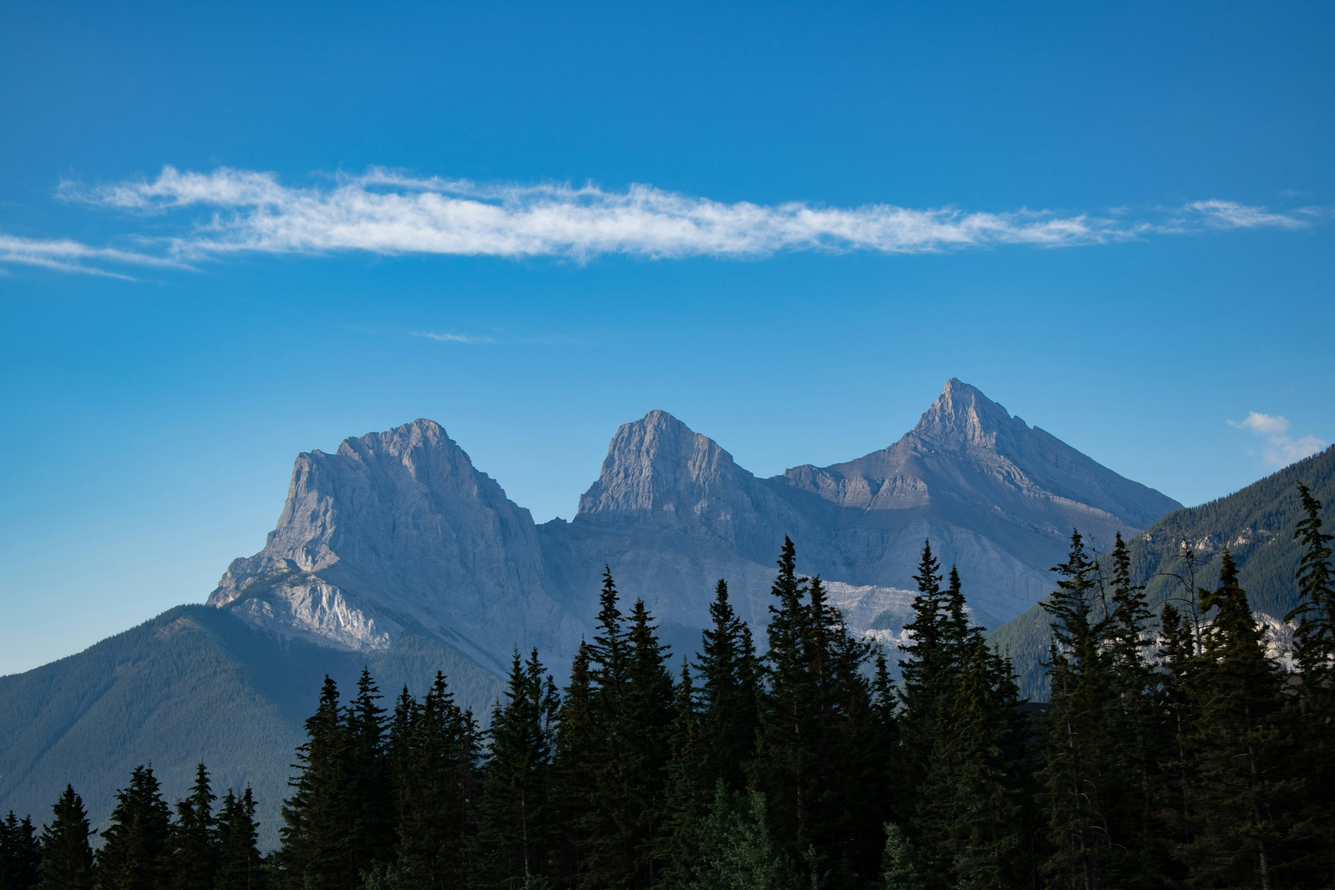
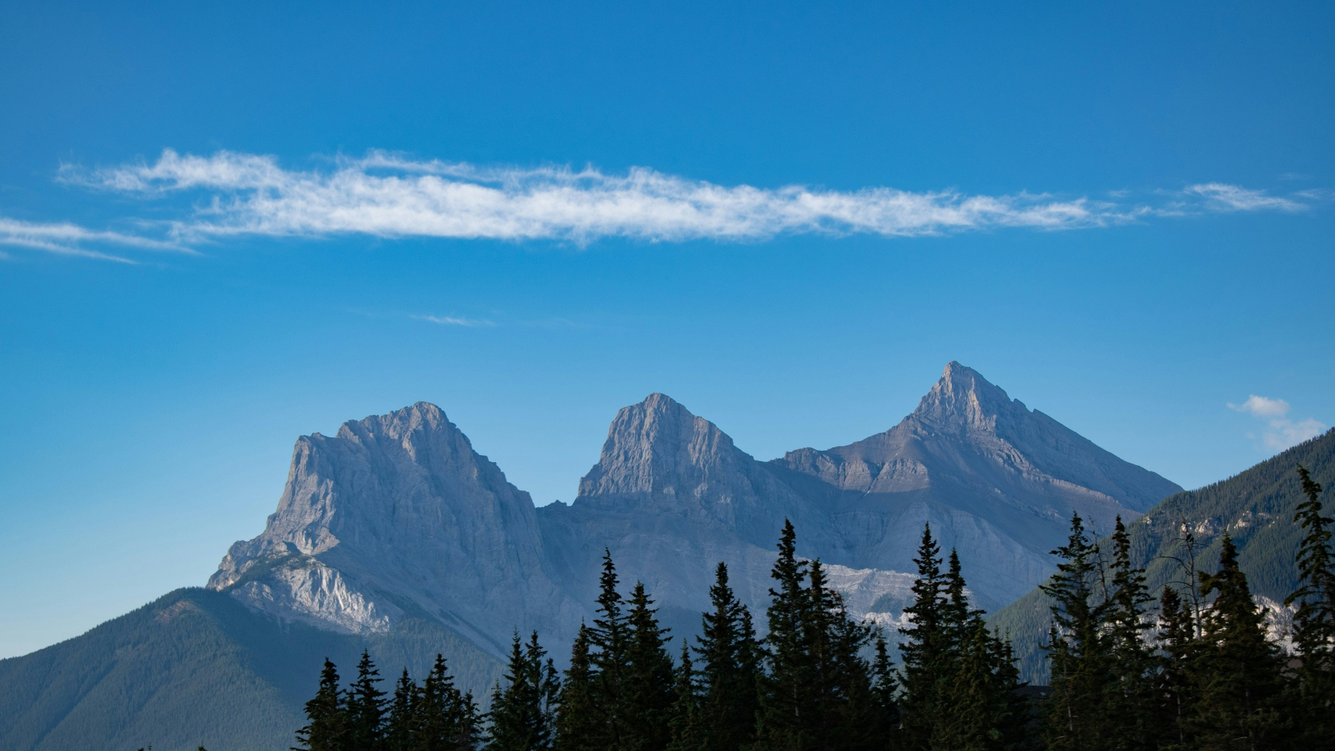
Add files via upload

diff --git a/index.html b/index.html
@@ -457,7 +457,7 @@ body.wid .tbr{display:none;}   /* 위젯에는 상단바가 없다 */
 /* 이동 화살표를 년월과 한 알약에 담는다 — 제목 채움은 알약으로. 연·월 선택은 년월 글자를 누른다 */
 .cal-move{display:flex;align-items:center;gap:0;min-width:0;}   /* margin-right:auto 없음 — 「오늘」이 옆에 붙도록(오른쪽 밀기는 .cal-ctl) */
 body:not(.wid) #view-calendar .cal-move{background:var(--fill);border-radius:var(--rmd);padding:2px;}
-body.wid .cal-move{background:rgba(16,20,30,.55);border-radius:999px;padding:2px;}   /* 폰 하단 탭과 같은 캡슐 */
+body.wid .cal-move{background:rgba(16,20,30,.55);border-radius:3px;padding:2px;}
 .seg{display:inline-flex;background:var(--fill);border-radius:var(--rp);padding:2px;}
 .seg button{padding:4px 13px;border-radius:var(--rp);font-size:12px;font-weight:700;color:var(--lbl2);transition:color var(--t-fast),background-color var(--t-fast),box-shadow var(--t-fast);}
 .seg button.act{background:var(--bg2);color:var(--bt1);box-shadow:var(--sh-1);}
@@ -1658,8 +1658,8 @@ body.wid #ymPop .ymp-m.sel{background:var(--b600);color:#fff;}
 body.wid #ymPop .cal-nb{color:rgba(255,255,255,.75);}
 body.wid #ymPop .cal-nb:hover{background:rgba(255,255,255,.14);color:#fff;}
 /* 4. 년월 제목·설정/프로필도 이동 버튼과 같은 알약 배경 위에 */
-body.wid .cal-title{background:transparent;border-radius:999px;padding:0 8px;height:30px;}
-body.wid .cal-nav{padding:2px;border-radius:999px;}
+body.wid .cal-title{background:transparent;border-radius:3px;padding:0 8px;height:30px;}
+body.wid .cal-nav{padding:2px;border-radius:3px;}
 /* 시스템 글꼴 — 맑은 고딕은 작은 크기 힌팅이 있어 투명 창에서 더 또렷하다.
    ⚠ 굵기는 400/700 만 실제 글꼴이 있다 — 500·600 은 억지로 굵혀 뭉개진다 */
 /* 라틴·숫자는 Segoe UI, 한글은 맑은 고딕 — 윈도우 기본 조합
@@ -1719,7 +1719,8 @@ body.wid #mb .mrv-ib:hover{background:rgba(255,255,255,.1);color:#B9D3F7;}   /* 
 .wl-none span{font-size:12px;}
 /* 읽은 부름 — 지우지 않고 흐리게만 둔다 */
 .wl.rd{opacity:.5;}
-body.wid .cal-filt-pop{position:absolute;z-index:640;top:calc(100% + 8px);right:0;width:306px;
+body.wid .cal-filt-pop{position:absolute;z-index:640;top:calc(100% + 8px);right:0;width:min(306px,calc(100vw - 20px));   /* 좁은 창에서 왼쪽이 창 밖으로 나가면 day.fmore 가 안쪽으로 민다(조상의 blur 때문에 fixed 는 창 기준이 아니다) */
+  
   background:rgba(24,27,36,.8);-webkit-backdrop-filter:blur(24px) saturate(1.6);backdrop-filter:blur(24px) saturate(1.6);
   border:1px solid rgba(255,255,255,.12);border-radius:18px;box-shadow:0 18px 50px rgba(0,0,0,.45),inset 0 1px 0 rgba(255,255,255,.08);padding:11px;
   --lbl:#fff;--lbl2:rgba(255,255,255,.80);--lbl3:rgba(255,255,255,.62);--sep:rgba(255,255,255,.20);
@@ -1777,6 +1778,12 @@ body.wid .ctx-k{background:transparent;border-color:rgba(255,255,255,.35);}
 body.wid .ctx-sep{background:rgba(255,255,255,.16);}
 /* 위젯(유리) — 목록도 어두운 카드로 */
 body.wid .cal-filt-pop::before{display:none;}   /* 꼬리 없음 — 둥근 유리 카드(폰 시트 결)는 떠 있는 판으로 둔다 */
+/* 머리 「필터 · 초기화」·아래 줄 숨김 — 데스크톱과 같은 구성(색만 어두운 판에 맞춤) */
+body.wid .cal-filt-pop .pf-h{display:flex;}
+body.wid .cal-filt-pop .pf-h b{color:#fff;}
+body.wid .cal-filt-pop .pf-h button{color:#8FB0EC;}
+body.wid .cal-filt-pop .pf-h button[disabled]{color:rgba(255,255,255,.4);}
+body.wid .cal-filt-pop .dp-ffoot{display:none;}
 /* 필터 단추 — 폰과 같은 규칙의 어두운 판: 빈 조건 = 옅은 흰 판·흰 글자·⌄ / 건 조건 = 파란 채움 (예전엔 회색 글자라 잘 안 보였다) */
 body.wid .cal-filt-pop .msel-b{height:34px;border-radius:17px;background:rgba(255,255,255,.1);box-shadow:inset 0 0 0 1px rgba(255,255,255,.14);color:#fff;font-weight:600;}
 body.wid .cal-filt-pop .msel-b::after{content:'';flex:0 0 auto;width:6px;height:6px;margin-right:2px;border-right:1.6px solid rgba(255,255,255,.6);border-bottom:1.6px solid rgba(255,255,255,.6);transform:translateY(-2px) rotate(45deg);}
@@ -2843,8 +2850,7 @@ body.wid.glass .card{background:transparent;border:0;box-shadow:none!important;b
 body.wid.glass .cal-head .seg,body.wid.glass .cal-head .cal-nav,body.wid.glass .cal-move{
   background:rgba(16,20,30,.5);border:1px solid rgba(255,255,255,.14);
   -webkit-backdrop-filter:blur(8px);backdrop-filter:blur(8px);}
-body.wid.glass .cal-head .cal-nav,body.wid.glass .cal-move{border-radius:999px;padding:2px;}   /* 캡슐(폰 하단 탭과 같은 결) */
-body.wid .cal-head .cal-nb{border-radius:999px;}   /* 캡슐 안 단추의 누름·호버 판도 둥글게 */
+body.wid.glass .cal-head .cal-nav,body.wid.glass .cal-move{border-radius:3px;padding:2px;}   /* 위젯 머리 단추 묶음은 각진 3px 유지(사용자 결정 — 캡슐 되돌림) */
 /* 알약 안의 제목은 면을 갖지 않는다 — 상자 안 상자 방지 */
 body.wid.glass .cal-title{background:transparent;}
 body.wid.glass .cal-title:hover{background:rgba(255,255,255,.12);}
@@ -5683,5 +5689,5 @@ td.d60-pc:hover{background:var(--fill)}
 <script src="./vendor/firebase-app-check-compat.js"></script>
 <script src="./vendor/purify.min.js"></script>
 <script src="./vendor/lz-string.min.js"></script>
-<script src="./app.js?v=1037"></script>
+<script src="./app.js?v=1039"></script>
 </body></html>

diff --git a/app.js b/app.js
@@ -8,7 +8,7 @@
 'use strict';
 /* 앱 버전 = 배포 회차 — zip 이름(calapp-vNNN)·index.html 의 app.js?v=NNN 과 같은 숫자다.
    ⚠ 어긋나면 static-audit 이 FAIL. 위젯 버전은 별개(트레이 메뉴) */
-const APP_VER='1037';
+const APP_VER='1039';
 /* iOS 는 16px 미만 입력칸에 초점이 가면 화면을 확대한다 — iOS 에만 maximum-scale=1 을 붙여 막는다.
    iOS 10+ 는 이 값이 있어도 두 손가락 확대는 그대로 되고, 안드로이드는 초점 확대가 없어 손대지 않는다(확대 기능 유지) */
 (()=>{const ios=/iP(hone|ad|od)/.test(navigator.userAgent)||(navigator.platform==='MacIntel'&&navigator.maxTouchPoints>1);
@@ -11178,6 +11178,8 @@ const ACT={
     p.classList.toggle('on',on);
     if(el&&el.setAttribute)el.setAttribute('aria-expanded',on?'true':'false');
     if(on)rFilter();
+    /* 위젯은 창이 좁다 — 오른쪽 맞춤이라 왼쪽이 창 밖으로 나가면 그만큼 안쪽(오른쪽 값을 줄여)으로 민다. 8px 여백 */
+    if(on&&WIDGET){p.style.right='';const op=p.offsetParent,L=(op?op.getBoundingClientRect().left:0)+p.offsetLeft;if(L<8)p.style.right=(-(8-L))+'px';}   /* offsetLeft — 여는 움직임(scale .96) 중에도 제자리 폭으로 잰다 */
   },
   'filt.msel':el=>{const m=el.closest('.msel'),was=m.classList.contains('open');mselClose();if(was)return;
     m.classList.remove('up');m.classList.add('open');

diff --git a/HANDOFF.md b/HANDOFF.md
@@ -1,7 +1,9 @@
 # 인수인계 — H · 주요업무현황 (calapp)
 
-**현재 기준: v1037.**
+**현재 기준: v1039.**
 
+- **1039차(사용자: 위젯 필터 팝업을 데스크톱과 동일하게)** — 위젯 `.cal-filt-pop` 에도 머리 `.pf-h`「필터 · 초기화」(흰 글자·#8FB0EC), 아래 「필터 적용 중 · 모두 해제」 줄 숨김, 폭 min(306px, 100vw−20px). 좁은 위젯 창에서 오른쪽 맞춤 팝업의 왼쪽이 창 밖(−1px)으로 나가던 것 → `day.fmore` 가 위젯에서 offsetLeft 로 재고(여는 scale 애니와 무관) 8px 안쪽으로 민다. ⚠ 조상의 backdrop-filter 때문에 위젯에서 position:fixed 는 창 기준이 아니다.
+- **1038차(사용자: 로그인 배경 교체 · 위젯 머리 단추 3px 복귀)** — `login-bg.jpg` 를 사용자 사진(3000×2000, 원본 그대로 — 줄이거나 다시 압축하지 않는다)으로. 위젯 머리 단추 묶음(`.cal-move`·`.cal-title`·`.cal-nav`·유리 모드 규칙)을 3px 로 되돌리고 캡슐 안 단추 둥글게(`.cal-head .cal-nb` 999) 규칙은 삭제. 위젯 떠 있는 창의 유리 카드·모션·확인창은 그대로.
 - **1037차(사용자: 데스크톱에도 적용 — 1035·1036 이 폰·위젯 구획에만 들어가 데스크톱이 빠졌던 것)** — `@media(min-width:961px)` 한 구획(파일 끝): 떠 있는 판(달력 필터 `.cal-filt-pop.tb-pop`·`.nq-panel`·`#ymPop` 18, `.ctxmenu` 14, 업무 현황 새 업무 `#tkoCard .tk-new` 18)을 밝은 유리 카드로, 필터 꼬리 없앰, 필터 단추(달력·업무 현황 `#tkFcard`) 빈 조건 = 흰 알약·진한 글자·⌄ / 건 조건 = 파란 채움, 머리 `.pf-h`「필터 · 초기화」 보이고 달력 필터 아래 줄은 숨김, 알림 캡슐. 확인창은 이미 같은 모양이라 그대로. 위젯 추가 다듬기(내 업무 건수·오늘 날짜/막대 둥글게·툴팁)는 사용자 기각.
 - **1036차(사용자: 위젯에도 새 디자인 언어·모션, 확인창 컴팩트, 브라우저 단추 집 아이콘)** — ① 위젯 떠 있는 창(`.wid-pop`·`#wgSet`·`#ymPop`·`.cal-filt-pop`·위젯 `.nq-panel`·`.ctxmenu` 14·`#mb` 20)을 18px 어두운 유리 카드(rgba(24,27,36,.8)+blur 24·saturate 1.6·옅은 테두리·안쪽 윗선)로. 3px 각진 판에서 바꿈 ② 위쪽 도구 묶음(`.cal-move`·`.cal-nav`, 유리 모드 규칙 포함)과 그 안 단추를 캡슐로 ③ 위젯 필터 단추: 빈 조건 = 옅은 흰 판·흰 글자·⌄, 건 조건 = 파란 채움, 꼬리 없앰 ④ 위젯 짧은 확인창 `#mb.mb-ask` = 폰처럼 300px 가운데 카드·반반 알약 ⑤ 위젯 알림 유리 캡슐 ⑥ 모션: `popOut`·`closeYMPop` 의 위젯 제외를 없애 닫힘도 흐리며, `#ymPop`·`.tb-pop.on`·`.wid-pop.on`·`#wgSet.on` 열림 popSc, 닫힘 opacity+display allow-discrete(.14s). 미끄러짐 엔진(slSync)은 위젯에서 여전히 끔 ⑦ `wid.open` 아이콘 i-ext → i-home(사용자 결정, i-ext 는 업무 링크가 계속 씀).
 - **1035차(사용자: 하단 탭·시트 디자인 언어 확장, 미리보기 확정)** — 폰만. ① 필터 팝업(달력 `#calFilt`·업무 현황 `#tkFcard .tkf-body`)을 유리 카드(22px)로, 알약은 빈 조건 = 흰 바탕·진한 글자·⌄, 건 조건 = 파란 채움(예전엔 둘 다 회색 계열이라 안 보였다). 머리 `.pf-h`「필터 · 초기화」(달력 = `filt.chipAll`, 업무 현황 = 새 `tkf.clear` — 찾기 글자는 둠). 폰에선 아래 「모든 업무」 줄 숨김. `.pf-h` 는 데스크톱·위젯에서 display:none ② 업무 현황 새 업무(`#tkoCard`)를 아래 유리 시트로(`.sheet`, 잡이 `.tko-grab` = tk.formCancel), 날짜 시트와 같은 곡선. 닫힐 때 내용은 400ms 뒤 비움. #tko 는 폰에서 opacity 대신 배경색만 풀어(판 전체를 흐리면 시트도 같이 사라진다) 시트가 미끄러져 내려간다. 키보드가 뜨면 `body.kbv` + `--kbh`(kbvSync 가 적음, visualViewport scroll 도 들음) 위로 ③ 알림을 유리 캡슐(22px·blur)로.

diff --git a/HANDOFF-log.md b/HANDOFF-log.md
@@ -1,6 +1,12 @@
 # 변경 이력 (읽기 전용) — 현재 상태는 HANDOFF.md
 
-## 마지막 기록 기준 v1037
+## 마지막 기록 기준 v1039
+
+### 1039차 — 위젯 필터 팝업 구성 통일(사용자)
+- 확인: 데스크톱·위젯(460) 계산값 비교 — 머리 flex·아래 줄 none·폭 306·여백 11·모서리 18·단추 34/17/13/600·간격 6 동일, 위젯 왼쪽 9px. 정적 감사 0·0, 전체 시험 PASS.
+
+### 1038차 — 로그인 배경·위젯 머리 단추(사용자)
+- 확인: 로그인 화면 데스크톱 1440·폰 390 캡처(데스크톱은 오른쪽 절반을 로그인 카드가 덮어 왼쪽 봉우리만 온전히 보인다 — cover 라 가로 위치로는 못 옮김), 정적 감사 0·0, 전체 시험 PASS.
 
 ### 1037차 — 데스크톱 유리 카드·필터 단추·알림(사용자)
 - 누락 인정: 1035·1036 에서 폰(≤960)·위젯 구획에만 넣고 데스크톱 적용 여부를 말하지 않았다.
